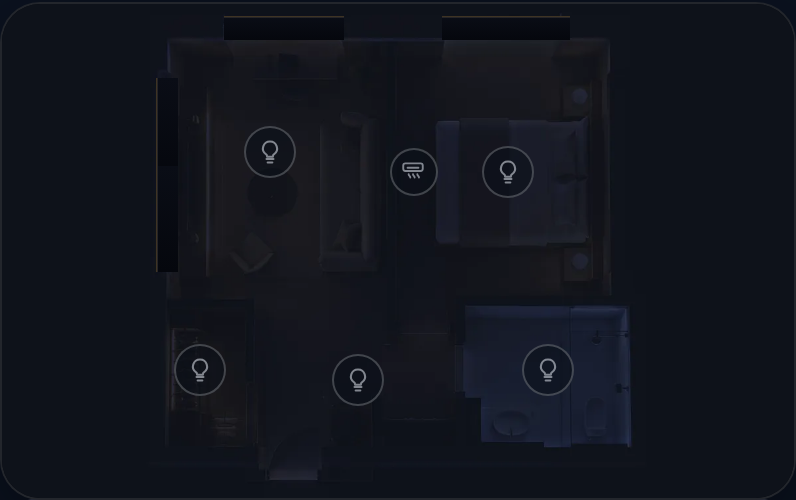
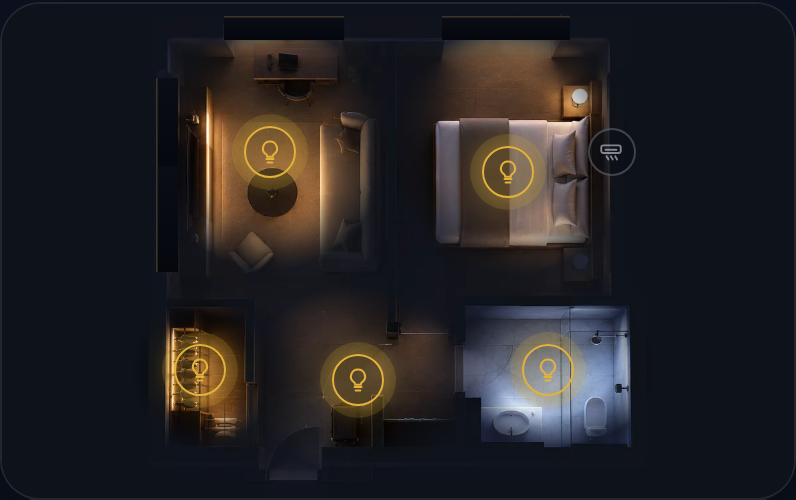
fix(guest): дует один фанкойл, а не каждая лампа
С экрана: струи били из нескольких мест плана разом — гостиная, гардеробная,
прихожая, ванная. Причина найдена и подтверждена кадром: в отборе источников
потока не было проверки `air`.

Точки плана — это И фанкойл, И метки света, формат у них один; чем окажется
точка, решает элемент, на который она ссылается. У маркеров эта проверка
стояла, у потока — нет, поэтому источником становилась ЛЮБАЯ включённая
лампа, и каждая дула вниз своим умолчанием направления. При зажжённом свете
получалось пять струй вместо одной.

Заодно точка переехала к правильной стене: (52.0, 34.0) — это перегородка
гостиная/спальня, то есть ЧУЖАЯ стена. Теперь (77.0, 30.0) — правая стена
спальни, у изголовья и прикроватных ламп, поток идёт вглубь комнаты вдоль
кровати. Струя не выходит за пределы спальни: длина ≈25% ширины плана,
спальня 49.5–79.

Правка в замерах и сиде, в коде координат по-прежнему нет. Проверено
пересевом (точка держится, версия не выросла) и кадрами: при включённом
кондиционере одна струя и ни одной частицы больше, при выключенном — пусто,
причём весь свет в номере включён.

Changed region(s): [[0.2412, 0.06, 0.7839, 0.54], [0.3618, 0.6, 0.8141, 0.9], [0.1809, 0.63, 0.3317, 0.87]]

diff --git a/frontend/src/guest/components/RoomPlanPlate.tsx b/frontend/src/guest/components/RoomPlanPlate.tsx
@@ -760,7 +760,17 @@ function Airflow({
       points
         .map((point) => {
           const reading = readings[point.controlId];
-          if (!reading || reading.on !== true) return null;
+          /*
+            ТОЛЬКО ТОЧКА ВОЗДУХА, И ЭТО НЕ ПРИДИРКА.
+
+            Проверки `air` здесь не было, а точки плана — это И фанкойл, И
+            метки света: формат у них один. Поэтому источником становилась
+            ЛЮБАЯ включённая лампа, и при зажжённом свете струи били из
+            гостиной, гардеробной, прихожей и ванной разом — «дует отовсюду».
+            Признак берётся оттуда же, откуда его берут сами метки (`fan_speed`
+            в возможностях элемента), иначе два места разошлись бы снова.
+          */
+          if (!reading || !reading.air || reading.on !== true) return null;
           // `0` у вентилятора — АВТО, а не «выключено»: поток есть, просто
           // самый слабый. Выключение фанкойла — это toggle.
           const level = reading.fan && reading.fan > 0 ? reading.fan : 1;
